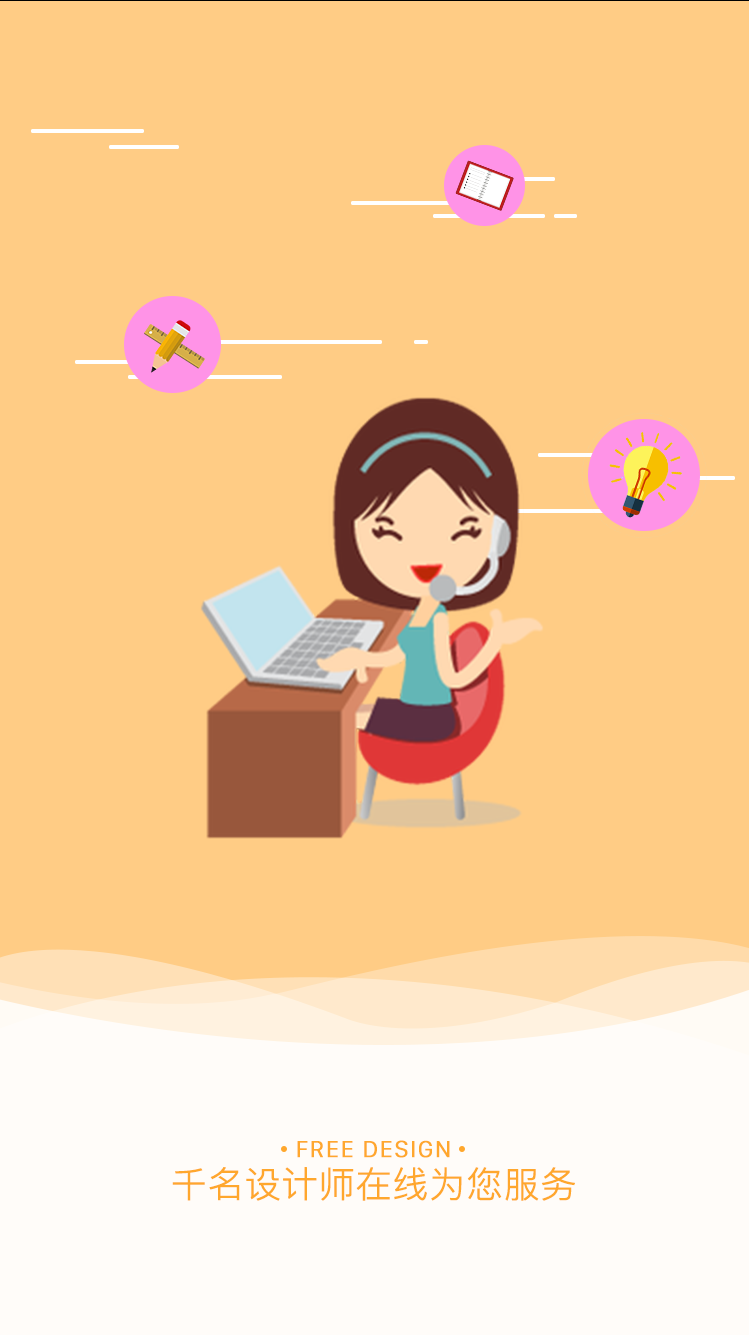
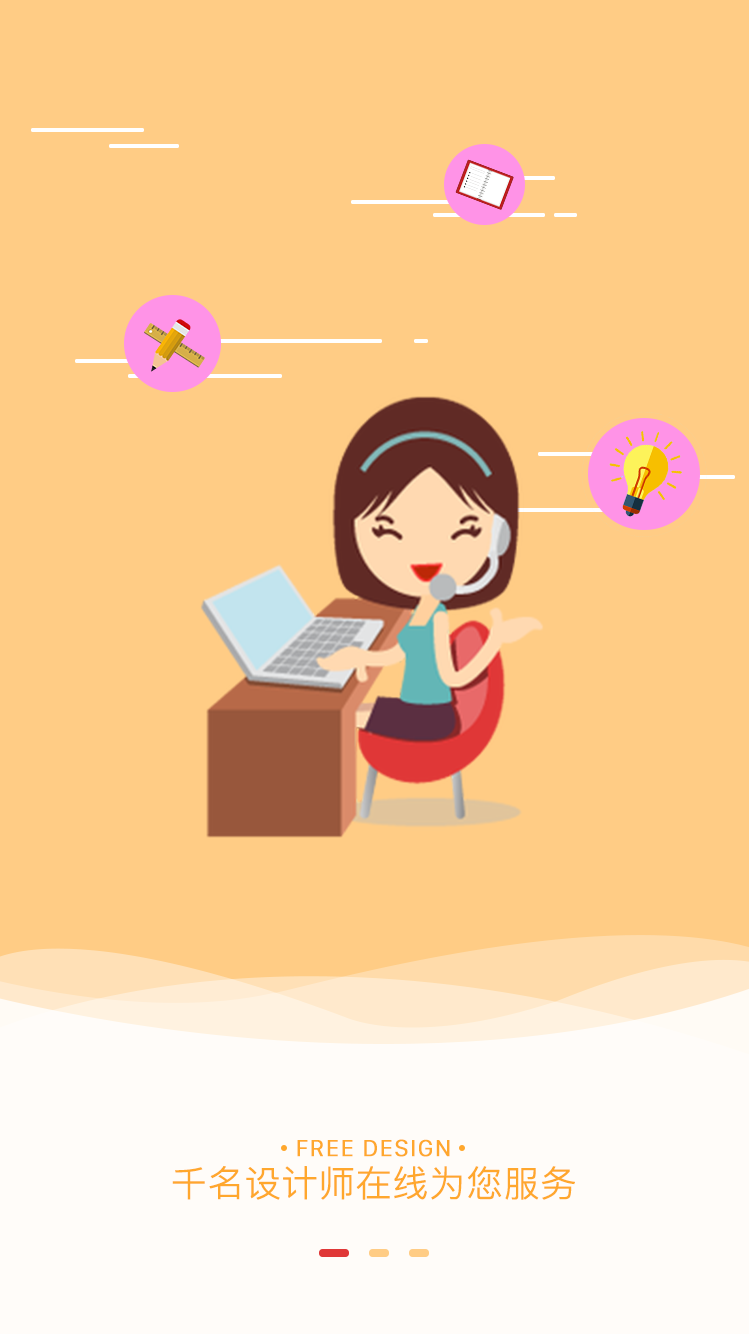
'guide'

diff --git a/index/src/components/guild/w_guide.vue b/index/src/components/guild/w_guide.vue
@@ -1,41 +1,70 @@
 <template>
-    <swiper :options="swiperOption" ref="mySwiper">
-        <!-- slides -->
-        <swiper-slide>I'm Slide 1</swiper-slide>
-        <swiper-slide>I'm Slide 2</swiper-slide>
-        <swiper-slide>I'm Slide 3</swiper-slide>
-        <!-- Optional controls -->
-        <div class="swiper-pagination"  slot="pagination"></div>
-        <div class="swiper-button-prev" slot="button-prev"></div>
-        <div class="swiper-button-next" slot="button-next"></div>
-        <div class="swiper-scrollbar"   slot="scrollbar"></div>
-    </swiper>
+    <div class="guide">
+        <swiper :options="swiperOption" ref="mySwiperA" class="swip">
+            <!-- 幻灯内容 -->
+            <swiper-slide class="slide"><img src="/static/img/leader_03.png" alt=""></swiper-slide>
+            <swiper-slide class="slide"><img src="/static/img/leader_05.png" alt=""></swiper-slide>
+            <swiper-slide class="slide"><img src="/static/img/leader_10.png" alt=""></swiper-slide>
+        </swiper>
+    </div>
 </template>
-
 <script>
-    import { swiper, swiperSlide } from 'vue-awesome-swiper'
-    export default {
-        name: 'carrousel',
-        data() {
+    export default{
+        data(){
             return {
                 swiperOption: {
-                    // notNextTick是一个组件自有属性，如果notNextTick设置为true，组件则不会通过NextTick来实例化swiper，也就意味着你可以在第一时间获取到swiper对象，假如你需要刚加载遍使用获取swiper对象来做什么事，那么这个属性一定要是true
+                    // 所有配置均为可选（同Swiper配置）
                     notNextTick: true,
-                    // swiper configs 所有的配置同swiper官方api配置
-                    autoplay: 3000,
-                    prevButton:'.swiper-button-prev',
-                    nextButton:'.swiper-button-next',
-                }
+                    grabCursor : true,
+                    setWrapperSize :true,
+                    autoHeight: true,
+                    mousewheelControl : true,
+                    observeParents:true,
+                    onTransitionStart(swiper){
+                        this.active=swiper.realIndex;
+                    },
+                    onTouchEnd(){
+                        if(this.active==2) {
+                            location.href = '#/login';
+                        }
+                    }
+                },
+
             }
         },
-        components: {
-            swiper,
-            swiperSlide
+        computed: {
+            swiper() {
+                return this.$refs.mySwiperA.swiper
+            },
+            active(){
+                return this.swiperOption.active;
+            }
         },
+        mounted() {
+
+        }
     }
 </script>
 
-<!-- Add "scoped" attribute to limit CSS to this component only -->
 <style scoped>
+    .guide{
+        width:100vw;
+        height:100vh;
+        overflow: hidden;
+        position: relative;
+        background: #fff;
 
+    }
+    .swip{
+        height:100%;
+    }
+    .slide{
+        width:100vw;
+        height:100vh;
+        float: left;
+    }
+    .slide > img{
+        width:100%;
+        height: 100%;
+    }
 </style>

diff --git a/index/src/main.js b/index/src/main.js
@@ -4,7 +4,8 @@ import Vue from 'vue'
 import App from './App'
 import router from './router'
 import rem from './assets/js/rem'
-import { swiper, swiperSlide } from 'vue-awesome-swiper'
+import VueAwesomeSwiper from 'vue-awesome-swiper';
+Vue.use(VueAwesomeSwiper)
 
 Vue.config.productionTip = false
 
